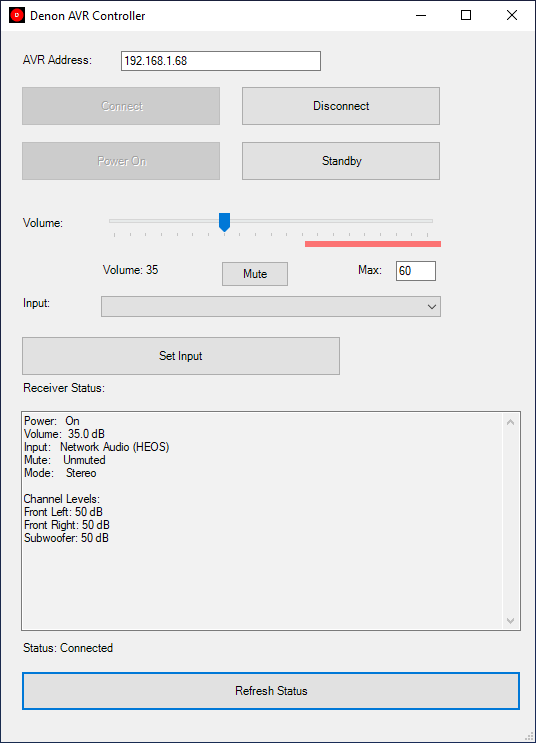
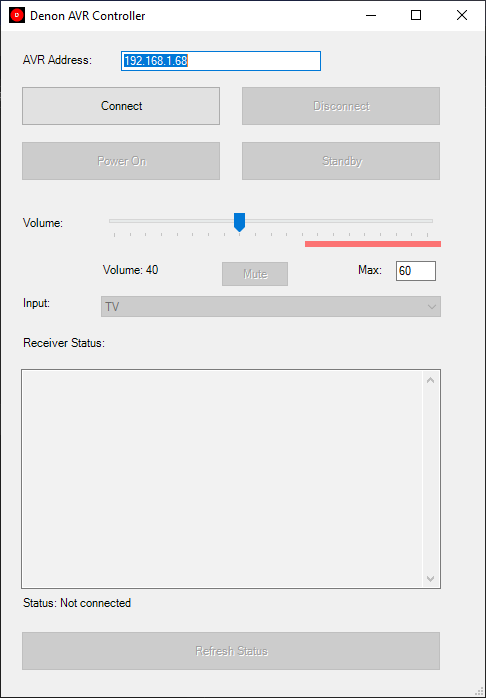
Readme tweaks and fresh screenshot

diff --git a/README.md b/README.md
@@ -8,18 +8,19 @@ A simple tool to control a Denon or Marantz network receiver over LAN from your 
 
 - Windows PowerShell 5.1
 - [.NET Framework](https://dotnet.microsoft.com/download/dotnet-framework) (WinForms assemblies load at runtime)
-- Tested against a Denon X1600H Receiver but should work on a broad range of Denon and Marantz models
-- Enable Settings -> Network -> Network control on the receiver settings
+- A Denon or Marantz receiver connected to your LAN with Settings -> Network -> Network control enabled on the receiver settings
 
 ## Run without building
+
+Download the release .exe and run it.
+
+OR
 
 From the repo root:
 
 ```powershell
 powershell -ExecutionPolicy Bypass -File .\src\DenonAVR.standalone.ps1
 ```
-
-Ensure no other application has the receiver’s TCP control session open at the same time (many units allow only **one** client).
 
 ## Build a standalone `.exe`
 
@@ -40,3 +41,4 @@ The executable is written to `release\DenonAVR.exe`.
 ## Disclaimer
 
 This is unofficial hobby software—not affiliated with Sound United, Denon, or Marantz. Use at your own risk.
+Tested against a Denon X1600H Receiver but should work on a broad range of Denon and Marantz models.